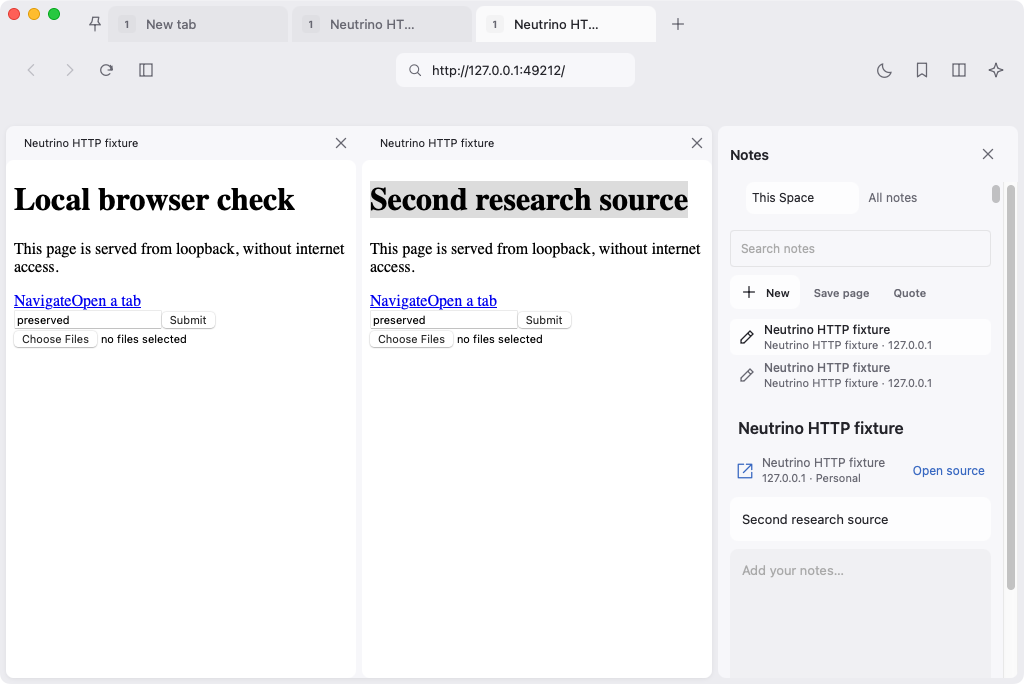
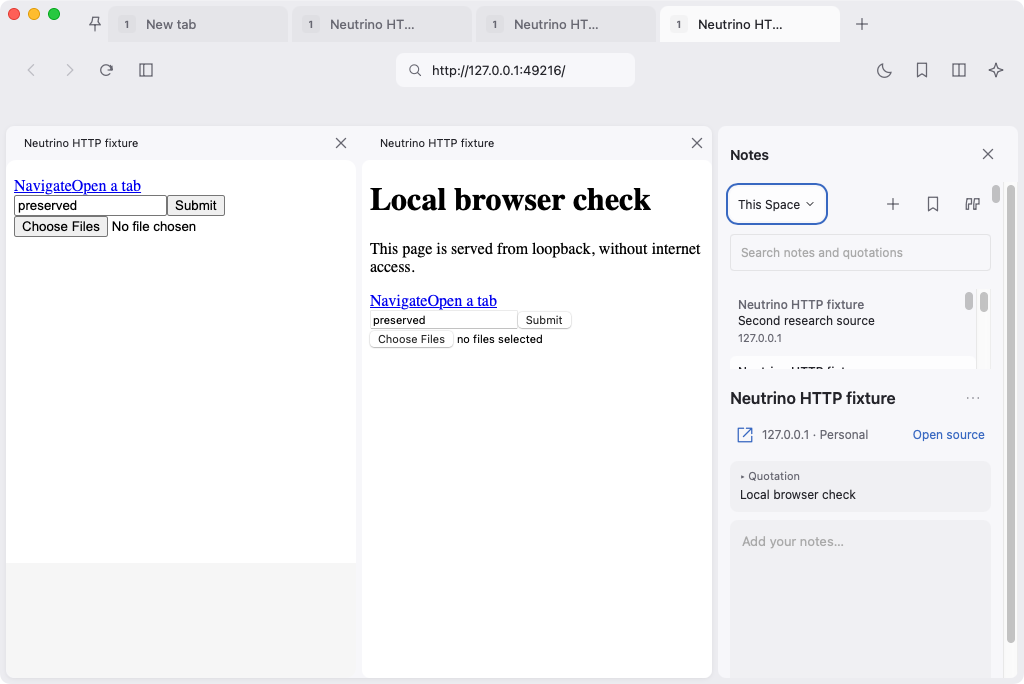
Attach crash diagnostics after full native browsing acceptance

diff --git a/Sources/NeutrinoApp/AppSmokeTest.swift b/Sources/NeutrinoApp/AppSmokeTest.swift
@@ -243,6 +243,13 @@ enum AppSmokeTest {
             }
         }
         CFRunLoopWakeUp(runLoop)
+        if ProcessInfo.processInfo.environment["NEUTRINO_SMOKE_DEBUGGER"] == "attach",
+           ProcessInfo.processInfo.environment["NEUTRINO_SMOKE_TEST_DATA"] != nil {
+            // Run the full WindowServer/input workload before attaching. A
+            // debugger-launched process cannot acquire native focus on CI.
+            trace("NEUTRINO_SMOKE_ATTACH_READY")
+            _ = raise(SIGSTOP)
+        }
     }
     private static func captureOnboarding(app: AppState, output: URL) async throws {
         let window = NSWindow(contentRect: NSRect(x: 100, y: 100, width: 1100, height: 780), styleMask: [.titled, .closable], backing: .buffered, defer: false)

diff --git a/docs/GAUNTLET.md b/docs/GAUNTLET.md
@@ -81,5 +81,6 @@ Root performed all coding. Every iteration used a fresh GPT-6.1 Sol xhigh produc
 | 17 | Installed `114c21a` passes both expanded research receipts, full MV3 lifecycle, Chrome Web Store, popup/opener/POST, private isolation and native management checks, but exits 139 after its normal-quit reply. Fresh critic and separate auditor found that native child detachment was bypassed by an early window nil assignment and retained clips outlived their C++ owners. Teardown now restores original Chrome content before forced close, clears clip ownership and observers, handles native closure and late creation, and prevents reclipping. Final snapshot freeze reversibly unmounts page surfaces; native acceptance verifies retained browser identity through refusal/remount and requires closed-manager clip release. The captured sample predates the crash; a clean installed exit and process restart remain mandatory. |
 | 18 | The native sample also exposed whole-library normalization on the main actor for every edit before the save debounce. Snapshot normalization now runs on the existing serial database actor only after the debounce, with cancellation checked before transformation and before the revision-ordered write. This avoids overlapping whole-library worker tasks. Explicit final flush semantics remain intact. Fresh critic and separate auditor approved the source; all portable suites pass, including cancellation/revision ordering. Installed `05f5c74` still exits 139, now confirmed after CEF shutdown returns and AppKit begins termination. An opt-in debugger launch captures the actual stopped stack; it deliberately cannot produce an acceptance pass. Native verification remains required. |
 | 19 | Fresh criticism found that quoting inner page A and selecting sibling B could recover a duplicate source instead of the retained document, including after a Space move. Notes now retain a bounded process-scoped page token; Rust resolves original inner identity before URL fallback, respects Profile boundaries, and selects a saved original group before cold restoration. The native adapter owns and cancels the bounded restore job on navigation, page input, replacement and teardown. Rust regressions cover equal URLs, stale tokens/ID reuse, foreign Profiles and unloaded groups; installed acceptance adds real original-form preservation and cold-group restoration requirements. The first LLDB run (`b648a1c`) correctly rejects unavailable native focus before quit; diagnostic-only failures now request the same ordinary termination path, while forced status 125 still prevents acceptance. No production crash fix or clean-exit pass is claimed. |
+| 20 | Native `dd7b385` passes 169 debug tests, 97 release tests, WebKit installed research and ordinary quit. Its LLDB-launched Blink workload rejects native focus and later exits cleanly during diagnostic termination; it does not reproduce the complete workload's crash. The diagnostic now launches normally and attaches only after full acceptance has queued ordinary quit, using an isolated smoke-only stop marker. The existing watchdog owns the debugger and captures its stopped stack; either debugger mode still forces failure rather than certifying acceptance. README images now reflect the native compact research controls and live editor. |
 
 The concrete customer hypothesis is local research: quotations retain provenance, notes remain beside live source pages, a moved source can be recovered without losing its document/draft, and saved layouts retain the comparison context. This must work through native engines and storage before recommending Neutrino for that workflow. General parity, protected streaming, clean-Mac signing, keyed Sparkle and accessibility remain separate gates.

diff --git a/docs/TESTING.md b/docs/TESTING.md
@@ -8,6 +8,8 @@ The current Linux suite passes 46 Rust workflow tests, three executable worker-p
 
 Source `114c21a` passed [macOS and portable CI](https://github.com/starharbor2491/neutrino-browser/actions/runs/38625693204), including 168 debug tests, 97 release native tests, packaging, and the installed WebKit research/normal-quit workflow. Its [complete Blink run](https://github.com/starharbor2491/neutrino-browser/actions/runs/38625693168) passed both expanded research receipts and the browsing/extension checks, then crashed on normal termination. Revised native-surface teardown in `05f5c74` still [exits 139](https://github.com/starharbor2491/neutrino-browser/actions/runs/38629649565), after CEF shutdown returns and AppKit begins termination. The next LLDB launch is diagnostic only and cannot certify acceptance. Debounced-save responsiveness also requires native verification. A successful browsing check does not waive the quit/restart gate.
 
+Source `dd7b385` passes [169 native debug tests, 97 release tests, and installed WebKit research/ordinary quit](https://github.com/starharbor2491/neutrino-browser/actions/runs/38635492142). Its debugger-launched Blink process exits cleanly after focus-dependent acceptance fails; that partial workload does not certify the full installed path. The diagnostic now attaches after normal acceptance, with both debugger modes deliberately rejecting publication. Expanded Blink requirements include equal-URL inner-page provenance with retained live form state, and restoring an unloaded original group without adding a duplicate outer tab.
+
 The research receipt exercises quote provenance, different same-source excerpts, phrase matching beyond the list excerpt, note-content matching, original live-tab identity, moved-source recovery with the note still visible, durable database reload, split retention, and named setups. Full note bodies remain outside passive interface snapshots. The cancellation test proves that a discarded revision 99 cannot suppress a valid revision 2 or poison a reopened database.
 
 Fixture interactions independently cover command cancellation, tab/folder/Space dragging, gestures and Undo, six presets, four SVG packs, component docking/resizing, narrow editor containment, keyboard selection, named setup acknowledgement, module controls, source search/recovery, and reduced motion. These are interface checks, not native-engine compatibility evidence. Native screenshots use the OS compositor to include Blink child windows.

diff --git a/docs/RELEASE_STATUS.md b/docs/RELEASE_STATUS.md
@@ -10,6 +10,8 @@ Source `114c21a` passed [native WebKit CI](https://github.com/starharbor2491/neu
 
 Source `05f5c74` releases native Chrome surfaces before browser teardown and reversibly unmounts pages during final save. Its [native Blink run](https://github.com/starharbor2491/neutrino-browser/actions/runs/38629649565) still exits 139, now traced after CEF shutdown returns and AppKit begins termination. Publication remains blocked. The next debugger launch is diagnostic only and cannot produce an acceptance pass. Debounced autosaves now normalize snapshots on the serial database actor rather than the UI thread; that change also requires native verification. The host uses an upstream normal Chromium window clipped above Neutrino's viewport, identified by ABI 8 / `chromeViews` with `hostPresentation=clippedNative`.
 
+Source `dd7b385` passed [native debug/release and installed WebKit acceptance](https://github.com/starharbor2491/neutrino-browser/actions/runs/38635492142). The debugger-launched Blink workload could not acquire native focus and exited cleanly after its rejected checks; this does not reproduce or resolve the complete workload's termination crash. The next diagnostic attaches after normal browsing acceptance. Original inner-page source recovery and cold-group restoration remain installed Blink requirements.
+
 The current portable suite covers 46 Rust workflows, three executable worker-protocol tests, 72 Swift adapter/core tests, package validation, and packaging/update regressions. The [testing record](TESTING.md) separates fixture interactions, native tests, installed artifacts, and historical results. Screenshots and parser tests do not certify browser compatibility.
 
 Preview publication now requires installed launch, ordinary quit, external-data preservation, research acceptance in both engines, and complete Blink/MV3 acceptance against the exact packaged app. Consumer publishing additionally requires the manual core, protected streaming, signing, and clean-Mac gates.
